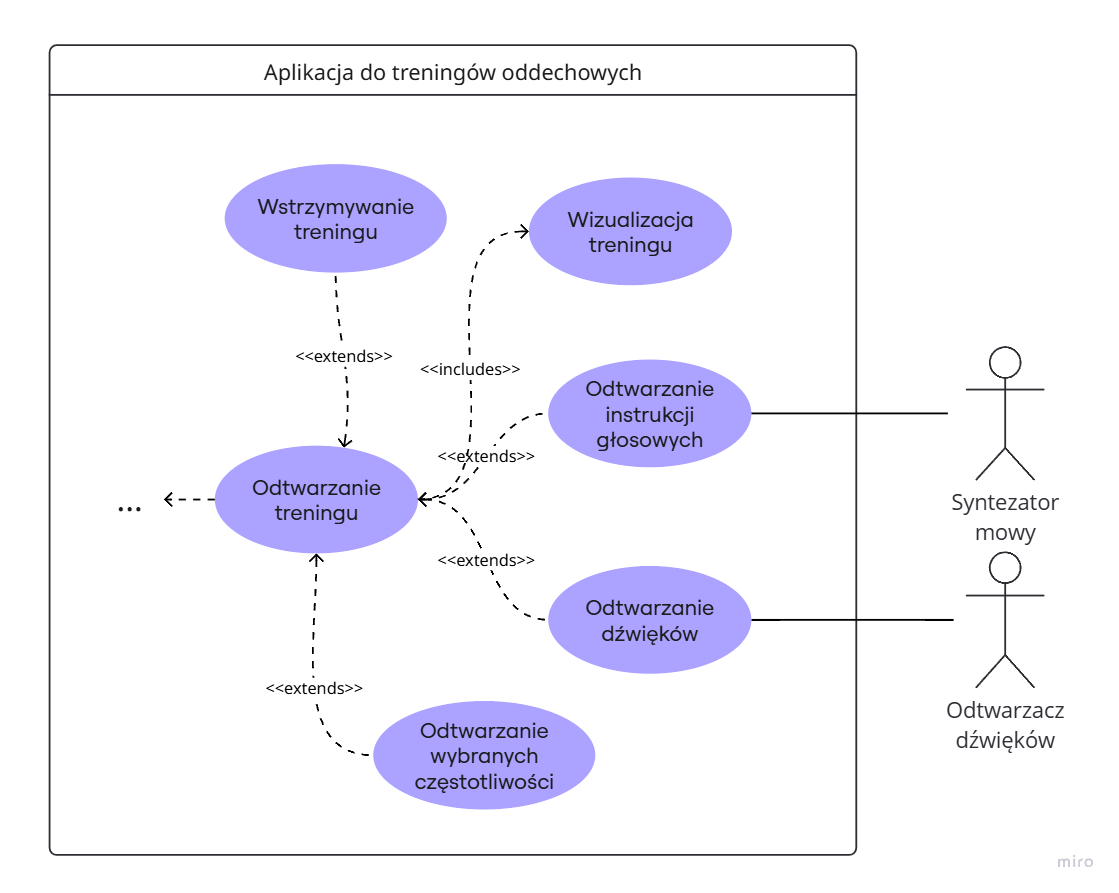
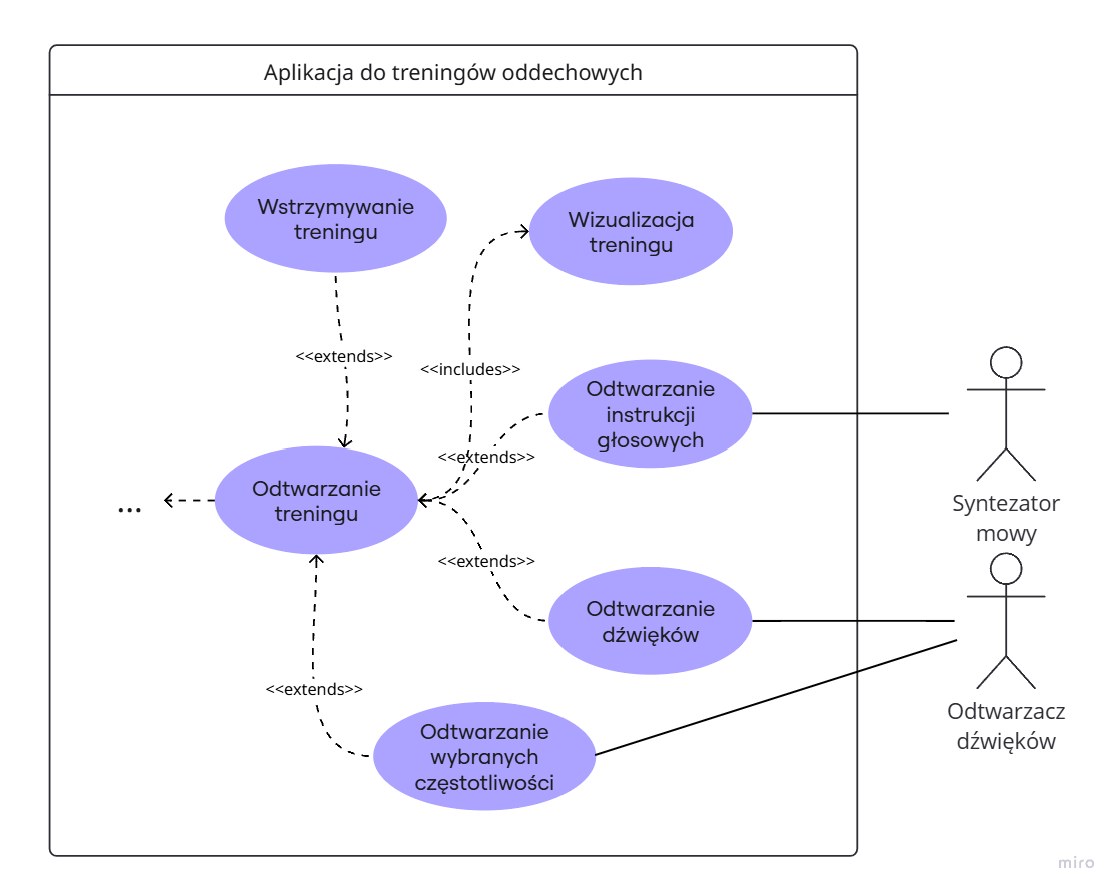
Added use cases subchapter

diff --git a/thesis/rozdzialy/analiza_wymagan.tex b/thesis/rozdzialy/analiza_wymagan.tex
@@ -1,42 +1,186 @@
 \chapter{Analiza wymagań}
 
-W niniejszym rozdziale przedstawione zostały wymagania projektowanej aplikacji. Użyto w tym celu trzech modeli - przypadków użycia, klas oraz sterowania dźwiękami.
+W niniejszym rozdziale przedstawione zostały wymagania projektowanej aplikacji. Użyto w~tym celu trzech modeli - przypadków użycia, klas oraz sterowania dźwiękami.
 
 \section{Model przypadków użycia \Hania\ \Ola}
+Celem modelu jest określenie głównych funkcji aplikacji, aktorów oraz relacji między nimi. W jego zakres wchodzą wszystkie funkcje dostępne dla użytkownika końcowego. Wyróżnionych zostało czterech aktorów, w tym jeden ożwiony: osoba korzystająca z aplikacji oraz trzech nieożywionych: lokalna baza danych, syntezator mowy oraz odtwarzacz dźwięków. Ze względu na~czytelność, diagram przypadków użycia został podzielony na trzy mniejsze części, gdzie zgrupowane są przypadki ze sobą powiązane. 
 
-cel po co robimy: określić główne funkcje systemu, aktorów oraz relacje między nim
-zakres: wszystkie funkcje dostępne dla użytkownika końcowego
-Podzieliliśmy na 3 diagramy
-diagram 1 został przedstawiony na rysunku \ref{img/przypadki_uzycia_1}
-
-\begin{figure}[ht]
+Pierwszy z diagramów został przedstawiony na rysunku \ref{img/przypadki_uzycia_1}. Zawiera podstawowe przypadki użycia, takie jak: wyświetlanie strony treningu \ref{tab:wyswietlenie_strony_treningu} lub ustawień, usuwanie \ref{tab:usuwanie_treningu}, eksport \ref{tab:eksport_treningu}, import \ref{tab:import_treningu}, edycję \ref{tab:edycja_treningu}, dodawanie \ref{tab:dodawanie_treningu}, odtwarzanie \ref{tab:odtwarzanie_treningu} lub wyświetlanie listy albo szczegółów treningów oddechowych. Dla edycji, dodawania oraz odtwarzania związki rozszerzenia (ang. extend) i~zawierania (ang. include) z innymi przypadkami użycia zostały przedstawione na osobnych fragmentach.
+\begin{figure}[H]
 \centering
-\includegraphics[scale=0.37]{obrazki/analiza_wymagan/przypadki_uzycia_1.png}
+\includegraphics[scale=0.17]{obrazki/analiza_wymagan/przypadki_uzycia_1.jpg}
 \caption{Główne przypadki użycia dla aplikacji ReSpire}
 \label{img/przypadki_uzycia_1}
 \end{figure}
 
-opis diagramu 1, opis przypadków użycia
-diagram 2 został przedstawiony na rysunku \ref{img/przypadki_uzycia_2}
-
-\begin{figure}[ht]
+\begin{table}[H]
 \centering
-\includegraphics[scale=0.42]{obrazki/analiza_wymagan/przypadki_uzycia_2.png}
+\renewcommand{\arraystretch}{1.3}
+\begin{tabular}{|p{4cm}|p{11cm}|}
+\hline
+\textbf{Warunki początkowe} & Istnieje co najmniej jeden trening, wykonano przypadek użycia \textit{Wyświetlenie listy treningów} \\ \hline
+\textbf{Przebieg} & 
+1. Użytkownik zgłasza żądanie wyświetlenia strony wybranego treningu.\\
+& 2. System wyświetla stronę zgodnie z żądaniem.\\
+& 3. Użytkownik może zgłosić żądanie edycji \ref{tab:edycja_treningu}, usunięcia \ref{tab:usuwanie_treningu}, eksportu \ref{tab:eksport_treningu} lub odtworzenia treningu \ref{tab:odtwarzanie_treningu}. \\ \hline
+\textbf{Przebieg alternatywny} & brak \\ \hline
+\textbf{Warunki końcowe} & brak \\ \hline
+\end{tabular}
+\caption{Wyświetlenie strony treningu}
+\label{tab:wyswietlenie_strony_treningu}
+\end{table}
+
+\begin{table}[H]
+\centering
+\renewcommand{\arraystretch}{1.3}
+\begin{tabular}{|p{4cm}|p{11cm}|}
+\hline
+\textbf{Warunki początkowe} & Istnieje co najmniej jeden trening, wykonano przypadek użycia \textit{Wyświetlenie strony treningu} \ref{tab:wyswietlenie_strony_treningu}\\ \hline
+\textbf{Przebieg} & 
+1. Użytkownik zgłasza żądanie usunięcia treningu.\\
+& 2. System wyświetla okno z prośbą o potwierdzenie akcji.\\
+& 3. Użytkownik potwierdza żądanie.\\
+& 4. Użytkownik zgłasza żądanie opuszczenia strony edycji. \\
+& 5. System usuwa trening z bazy.\\\hline
+\textbf{Przebieg alternatywny} 
+& 3a. Użytkownik nie zgłasza żadnego żądania modyfikacji treningu. \\ 
+& 3a1. Użytkownik zgłasza żądanie opuszczenia strony edycji.\\
+& 3a2. Przypadek użycia zostaje przerwany. \\ \hline
+\textbf{Warunki końcowe} & Trening jest poprawnie usunięty i nie wyświetla się na liście. \\ \hline
+\end{tabular}
+\caption{Usuwanie treningu}
+\label{tab:usuwanie_treningu}
+\end{table}
+
+\begin{table}[H]
+\centering
+\renewcommand{\arraystretch}{1.3}
+\begin{tabular}{|p{4cm}|p{11cm}|}
+\hline
+\textbf{Warunki początkowe} & Użytkownik znajduje się na stronie głównej\\ \hline
+\textbf{Przebieg} & 
+1. Użytkownik zgłasza żądanie importu treningu.\\
+& 2. System wyświetla okno z eksploratorem plików.\\
+& 3. Użytkownik wybiera plik w formacie JSON do importu.\\\hline
+\textbf{Przebieg alternatywny} 
+& 3a. Użytkownik wybiera plik o błędnym rozszerzeniu, złej strukturze lub przerywa akcję. \\ 
+& 3a1. Przypadek użycia zostaje przerwany, system wyświetla odpowiedni komunikat. \\ \hline
+\textbf{Warunki końcowe} & Trening lub treningi zostają poprawnie zaimportowane i pojawiają się na liście. \\ \hline
+\end{tabular}
+\caption{Import treningu}
+\label{tab:import_treningu}
+\end{table}
+
+\begin{table}[H]
+\centering
+\renewcommand{\arraystretch}{1.3}
+\begin{tabular}{|p{4cm}|p{11cm}|}
+\hline
+\textbf{Warunki początkowe} & Istnieje co najmniej jeden trening, wykonano przypadek użycia \textit{Wyświetlenie strony treningu} \ref{tab:wyswietlenie_strony_treningu} lub otwarta jest strona główna\\ \hline
+\textbf{Przebieg} & 
+1. Użytkownik zgłasza żądanie eksportu treningu (lub treningów).\\
+& 2. System wyświetla okno eksploratora plików.\\
+& 3. Użytkownik wybiera tytuł pliku oraz jego lokalizację i potwierdza żądanie zapisu. \\
+& 4. System wyświetla potwierdzenie zapisu.\\\hline
+\textbf{Przebieg alternatywny} 
+& 3a. Użytkownik przerywa akcję zapisu. \\ 
+& 3a1. Przypadek użycia zostaje przerwany, system wyświetla odpowiedni komunikat. \\ \hline
+\textbf{Warunki końcowe} & Trening w formacie JSON zostaje zapisany na urządzeniu użytkownika. \\ \hline
+\end{tabular}
+\caption{Eksport treningu}
+\label{tab:eksport_treningu}
+\end{table}
+
+
+Drugi diagram został przedstawiony na rysunku \ref{img/przypadki_uzycia_2}. Przedstawia wspomniane wcześniej: edycję treningu \ref{tab:edycja_treningu} oraz dodawnie treningu \ref{tab:dodawanie_treningu} wraz z powiązanymi z nim przypadkami.
+
+\begin{figure}[H]
+\centering
+\includegraphics[scale=0.21]{obrazki/analiza_wymagan/przypadki_uzycia_2.jpg}
 \caption{Przypadki użycia dla aplikacji ReSpire - edycja treningu}
 \label{img/przypadki_uzycia_2}
 \end{figure}
 
-opis diagramu 2, opis przypadków użycia
-diagram 3 został przedstawiony na rysunku \ref{img/przypadki_uzycia_3}
-
-\begin{figure}[ht]
+\begin{table}[H]
 \centering
-\includegraphics[scale=0.38]{obrazki/analiza_wymagan/przypadki_uzycia_3.png}
+\renewcommand{\arraystretch}{1.3}
+\begin{tabular}{|p{4cm}|p{11cm}|}
+\hline
+\textbf{Warunki początkowe} & Istnieje co najmniej jeden trening, widok ze szczegółami treningu jest otwarty \\ \hline
+\textbf{Przebieg} & 
+1. Użytkownik zgłasza żądanie edycji treningu.\\
+& 2. System przenosi użytkownika na stronę edytora.\\
+& 3. Użytkownik może zgłosić żądania: edycji opisu, tytułu, dźwięków w~tle lub zmiany, dodania czy usunięcia etapu (wraz z fazami).\\
+& 4. Użytkownik zgłasza żądanie opuszczenia strony edytora. \\
+& 5. System dokonuje aktualizacji treningu o wprowadzone zmiany\\ \hline
+\textbf{Przebieg alternatywny} 
+& 3a. Użytkownik nie zgłasza żadnego żądania modyfikacji treningu. \\ 
+& 3a1. Użytkownik zgłasza żądanie opuszczenia strony edytora.\\
+& 3a2. Przypadek użycia zostaje przerwany. \\ \hline
+\textbf{Warunki końcowe} & Trening jest poprawnie zaktualizowany o wprowadzone zmiany. \\ \hline
+\end{tabular}
+\caption{Edycja treningu}
+\label{tab:edycja_treningu}
+\end{table}
+
+\begin{table}[H]
+\centering
+\renewcommand{\arraystretch}{1.3}
+\begin{tabular}{|p{4cm}|p{11cm}|}
+\hline
+\textbf{Warunki początkowe} & Istnieje co najmniej jeden trening, widok ze szczegółami treningu jest otwarty \\ \hline
+\textbf{Przebieg} & 
+1. Użytkownik zgłasza żądanie dodania treningu.\\
+& 2. System przenosi użytkownika na stronę edytora.\\
+& 3. Użytkownik zgłasza żądania dodania etapów wraz z fazami. \\
+& 4. Użytkownik może także zgłosić żądania: edycji opisu, tytułu, dźwięków w tle lub usunięcia etapów/faz.\\
+& 5. Użytkownik zgłasza żądanie opuszczenia strony edytora.\\
+& 6. System dokonuje aktualizacji listy treningów.\\ \hline
+\textbf{Przebieg alternatywny} 
+& 3a. Użytkownik nie zgłasza żądania dodania żadnego elementu treningu.\\ 
+& 3a1. Użytkownik zgłasza żądanie opuszczenia strony edytora.\\
+& 3a2. System wyświetla komunikat o pustym treningu.\\
+& 3a3. Użytkownik potwierdza chęć przerwania dodawania treningu i~przypadek użycia zostaje przerwany lub wraca do punktu 3.\\ 
+& 3b. Użytkownik zgłasza żądanie dodania etapów bez dodania faz.\\ 
+& 3b1. System wyświetla komunikat o niepełnym treningu.\\
+& 3b2. Użytkownik uzupełnia trening o brakujące elementy, a następnie wraca~do punktu 4 lub rezygnuje z dodania treningu i~przypadek użycia zostaje przerwany.\\ \hline
+\textbf{Warunki końcowe} & Trening został dodany do listy. \\ \hline
+\end{tabular}
+\caption{Dodawanie treningu}
+\label{tab:dodawanie_treningu}
+\end{table}
+
+
+Ostatni, trzeci diagram został przedstawiony na rysunku \ref{img/przypadki_uzycia_3}.
+\begin{figure}[H]
+\centering
+\includegraphics[scale=0.8]{obrazki/analiza_wymagan/przypadki_uzycia_3.png}
 \caption{Przypadki użycia dla aplikacji ReSpire - odtwarzanie treningu}
 \label{img/przypadki_uzycia_3}
 \end{figure}
 
-opis diagramu 3, opis przypadków użycia
+\begin{table}[H]
+\centering
+\renewcommand{\arraystretch}{1.3}
+\begin{tabular}{|p{4cm}|p{11cm}|}
+\hline
+\textbf{Warunki początkowe} & Istnieje co najmniej jeden trening, wykonano przypadek użycia \textit{Wyświetlenie strony treningu} \ref{tab:wyswietlenie_strony_treningu}\\ \hline
+\textbf{Przebieg} & 
+1. Użytkownik zgłasza żądanie odtworzenia treningu.\\
+& 2. System odtwarza trening z wizualizacją.\\
+& 3. Jeśli zostały ustwione odpowiednie parametry w edytorze syntezator mowy może zażądać odtworzenia instrukcji głosowych, a odtwarzacz dźwięków - odtwarzania dźwięków lub wybranych częstotliwości. \\
+& 4. Użytkownik może zażądać wstrzymania treningu.\\
+& 5. System zakańcza odtwarzanie treningu po upływie określonego czasu. \\ \hline
+\textbf{Przebieg alternatywny} 
+& 2a. Użytkownik zgłasza żądanie opuszczenia treningu. \\ 
+& 3a1. System wyświetla okno z zapytaniem o potwierdzenie akcji.\\
+& 3a2. Użytkownik potwierdza żądanie opuszczenia treningu i przypadek użycia zostaje przerwany lub analuje akcje i wraca do~punktu 2. \\ \hline
+\textbf{Warunki końcowe} & Następuje powrót na stronę szczegółów treningu. \\ \hline
+\end{tabular}
+\caption{Otwarzanie treningu}
+\label{tab:odtwarzanie_treningu}
+\end{table}
+
 
 \section{Model klas \Jakub}
 

diff --git a/thesis/rozdzialy/projekt_rozwiazania.tex b/thesis/rozdzialy/projekt_rozwiazania.tex
@@ -63,7 +63,7 @@ Poniżej przedstawiono listę kolorów zapisanych w~dwóch powszechnie stosowany
 \colorbox{colB}{\phantom{XXXX}} \quad \textbf{HEX:} \#32B7CF, \textbf{RGB:} (50, 183, 207) \\[3pt]
 \colorbox{colC}{\phantom{XXXX}} \quad \textbf{HEX:} \#7BDEF0, \textbf{RGB:} (123, 22, 240)
 
-Jedna z dwóch czcionek użytych w logo - \textit{Glacial Indifference} \cite{font} - została również wykorzystana w~aplikacji, zapewniając jej unikatowy charakter. Jest to darmowy, otwartoźródłowy krój pisma zaprojektowany przez \textit{Hanken Design Co.} z~licencją \textit{SIL OPEN FONT LICENSE Version 1.1} \cite{font_licensce} pozwalającą na użytek zarówno prywatny, jak i komercyjny. Przykładowy tekst oraz znaki zapisane użytą czcionką przedstawione zostały na rysunku \ref{img/czcionki}. Wykorzystana została także domyślna czcionka \textit{Fluttera} dla aplikacji na systemie \textit{Android} - \textit{Roboto}.
+Jedna z dwóch czcionek użytych w logo - \textit{Glacial Indifference} \cite{font} - została również wykorzystana w~aplikacji, zapewniając jej unikatowy charakter. Jest to darmowy, otwartoźródłowy krój pisma zaprojektowany przez \textit{Hanken Design Co.} z~licencją \textit{SIL OPEN FONT LICENSE Version 1.1} \cite{font_license} pozwalającą na użytek zarówno prywatny, jak i komercyjny. Przykładowy tekst oraz znaki zapisane użytą czcionką przedstawione zostały na rysunku \ref{img/czcionki}. Wykorzystana została także domyślna czcionka \textit{Fluttera} dla aplikacji na systemie \textit{Android} - \textit{Roboto}.
 \begin{figure}[H]
     \centering
     \includegraphics[scale=0.25]{obrazki/projekt_rozwiazania/czcionka_pogrubiona.jpg}

diff --git a/thesis/rozdzialy/implementacja.tex b/thesis/rozdzialy/implementacja.tex
@@ -215,6 +215,8 @@ Dodatkowo utworzony został obiekt łączący \texttt{AnimatedCircle} oraz dwa k
 
 \section{Import i export \Karol}
 
+\section{Generator list nagrań dźwiękowych \Ola}
+
 
 
 
